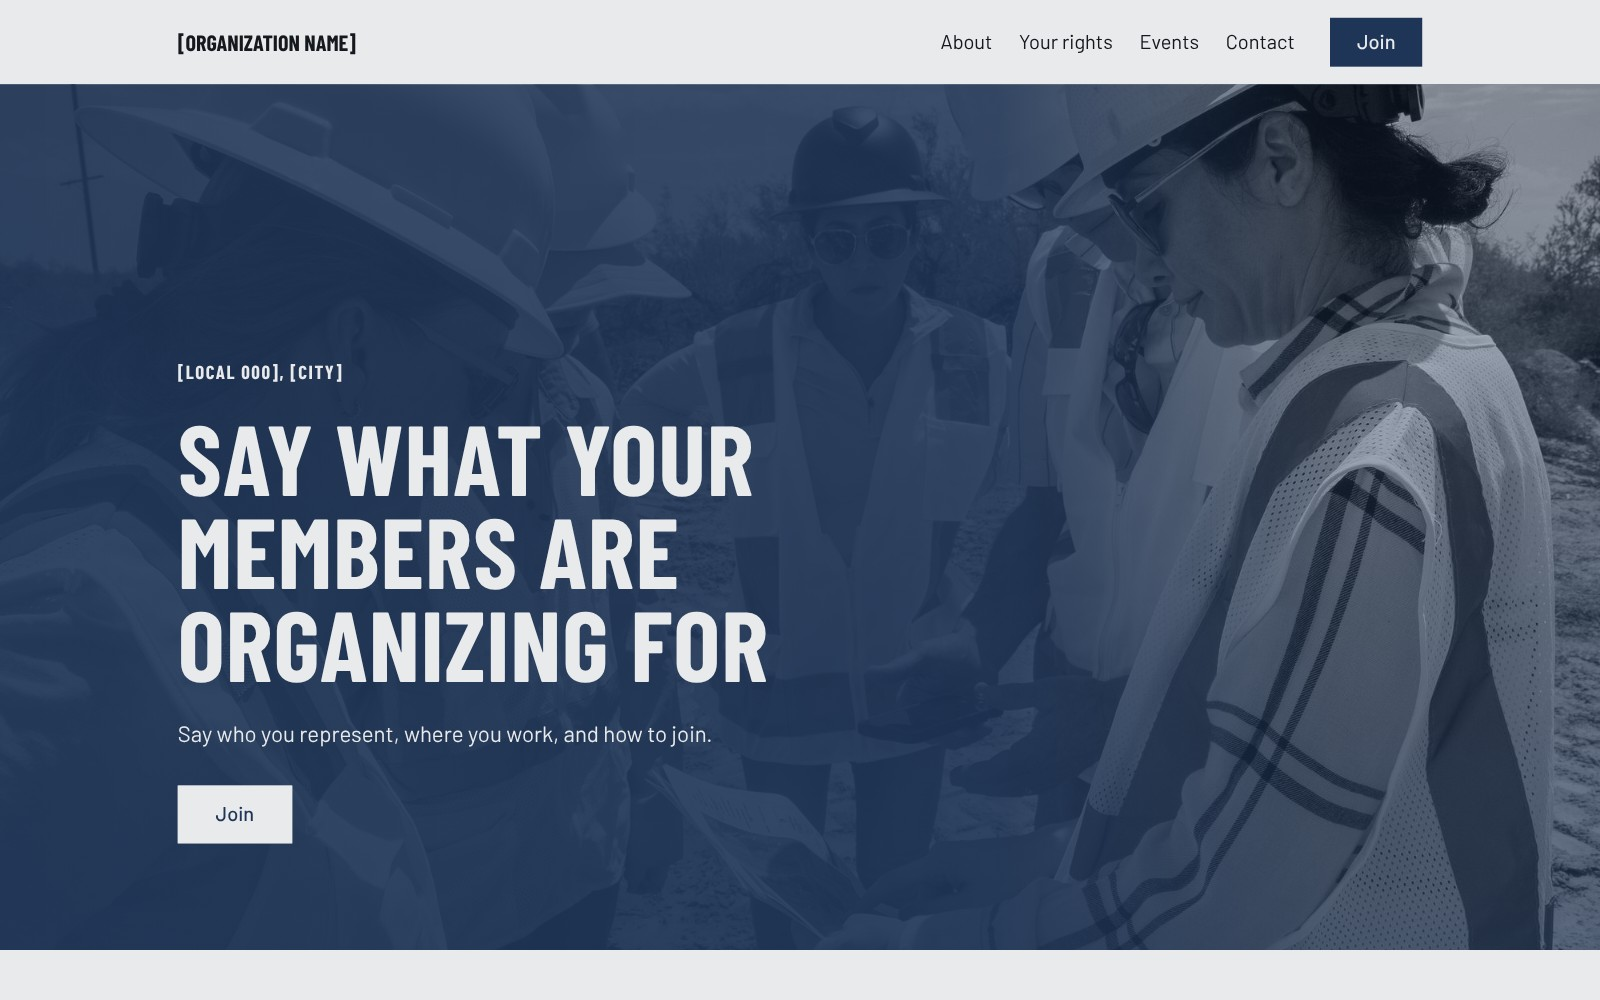
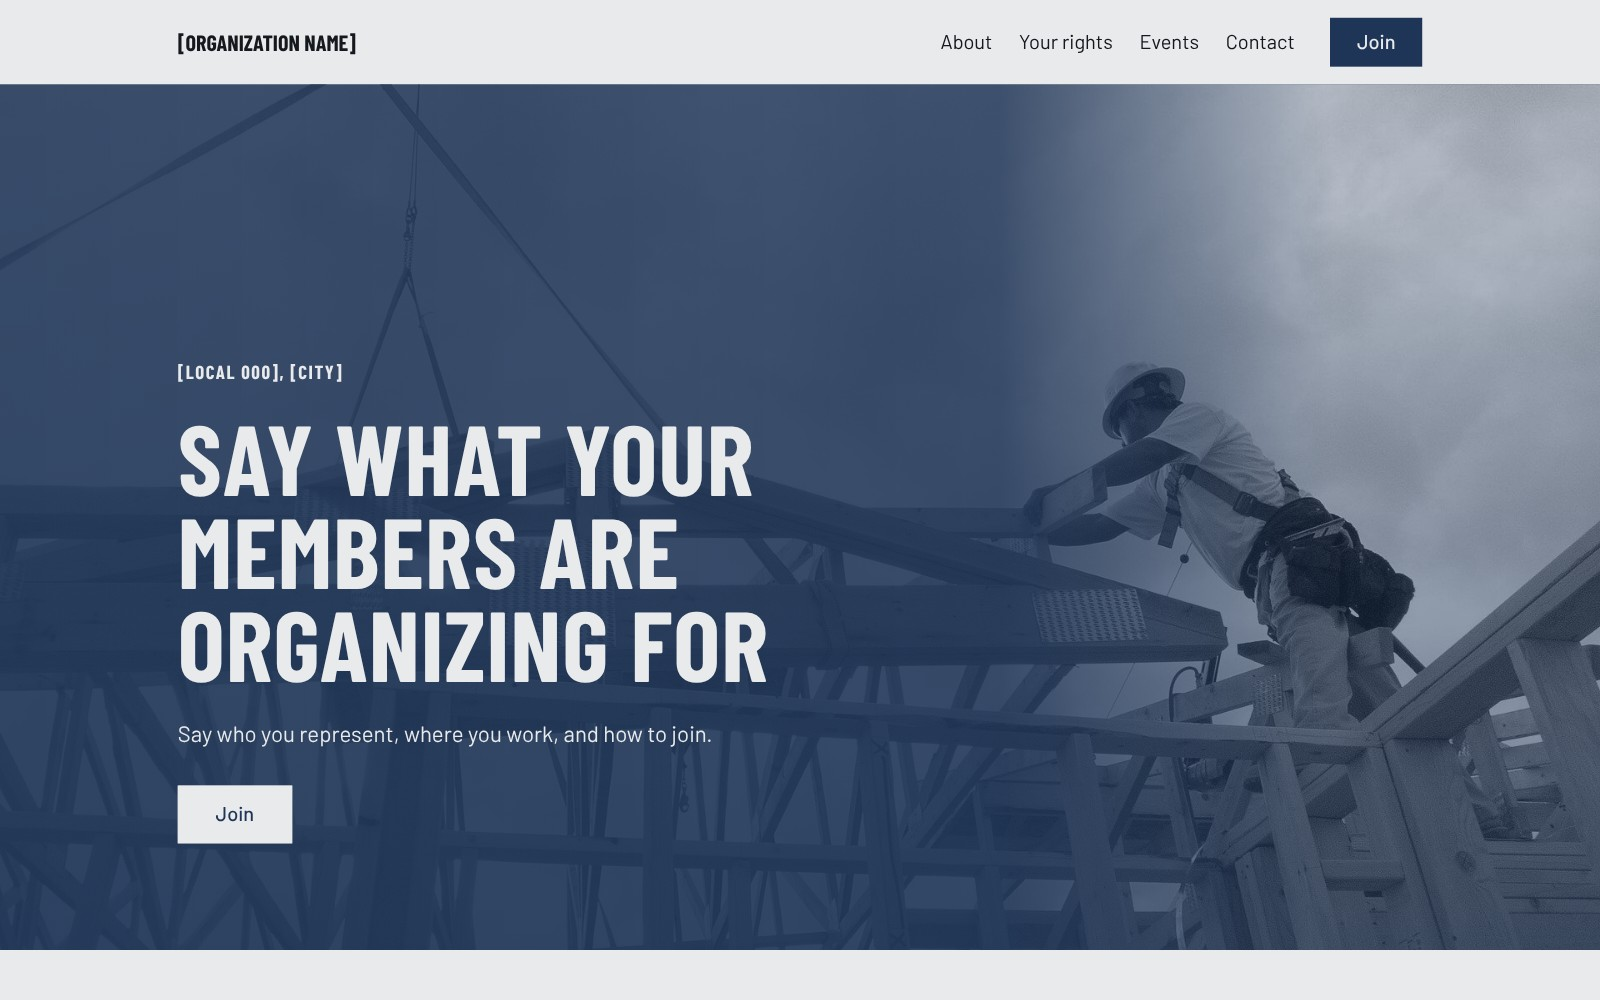
fix(site-templates): Workwear sample photos without faces as the subject
The owner's ruling of 2026-11-01: no photo's subject is a recognisable face.

- hero.jpg: a framer in a hard hat and harness setting a roof truss, his
  face turned down under the brim (NIOSH, 2012, PD-USGov-HHS-NIOSH).
  Painted out: two stickers and faint printing on the hard hat.
- about.jpg: a welder behind his helmet (Alfred T. Palmer, OWI, 1942,
  PD-USGov-FSA). Painted out: a glove maker's mark on his cuff.
- The hero's phone crop sits right of centre, where the framer stands; the
  thumbnail is regenerated.

diff --git a/packages/sdk-components-organizeos/src/site-templates/union/workwear/index.tsx b/packages/sdk-components-organizeos/src/site-templates/union/workwear/index.tsx
@@ -24,13 +24,23 @@ import { RULE } from "./styles";
 // and button, and the Event List as ruled rows with a fixed date column.
 //
 // The photos are public domain works of United States federal agencies,
-// from Wikimedia Commons, cropped, resized, turned to greys (about.jpg's
-// levels stretched, as the faded slide was) and compressed. Painted out: in
-// hero.jpg, a company's logo and slogan on a white hard hat, a company's name
-// on a navy one, a name sticker on a third (each filled with the hat's own
-// shading and grain, the third keeping the edge between its crown and brim)
-// and a round sticker at the top edge (cloned from the hat beside it); in
-// about.jpg, an ID badge on a breast pocket (filled with the pocket's cloth).
+// from Wikimedia Commons, turned to greys (CSS grayscale()'s weights) and
+// compressed. No photo's subject is a face (the owner's ruling of
+// 2026-11-01):
+// - hero.jpg: a framer in a hard hat and harness setting a roof truss from a
+//   crane, his face turned down under the brim. NIOSH (CDC), 2012, posted on
+//   its own Flickr account as a United States Government Work (Commons
+//   licence {{PD-USGov-HHS-NIOSH}}, Flickr review passed). Painted out: a
+//   logo sticker, a second sticker and faint printing on the hard hat
+//   (filled with the hat's own shading and grain, the crown's outline
+//   against the sky carried on from beside it).
+// - about.jpg: a welder behind his helmet, making boilers for a ship in
+//   Chattanooga, June 1942, by Alfred T. Palmer for the Office of War
+//   Information (Library of Congress LC-DIG-fsac-1a35232; Commons licence
+//   {{PD-USGov-FSA}}; the Commons file is a restoration, scratches and dust
+//   removed). Cropped to 4:5 around him. Painted out: a glove maker's mark
+//   and name on his cuff (filled with the cuff's own leather and grain, the
+//   spark across it kept).
 // Every photo slot shows its photo in greys too (`filter: grayscale(1)`), so
 // a photo an org puts there takes the palette as these do; the hero's lies
 // under the denim overlay (pages/home).
@@ -64,14 +74,14 @@ export const workwearTemplate: SiteTemplate = {
     "hero.jpg": {
       url: heroUrl,
       sourceUrl:
-        "https://commons.wikimedia.org/wiki/File:BLM_Arizona_staff_huddle_(53166029612).jpg",
+        "https://commons.wikimedia.org/wiki/File:Framing_fall_prevention_(9253620797).jpg",
       alt: "Replace with a photo of your members at work or meeting together",
     },
     "about.jpg": {
       url: aboutUrl,
       sourceUrl:
-        "https://commons.wikimedia.org/wiki/File:WORKERS_AT_THE_UNION_CARBIDE_URANIUM_MILL_-_NARA_-_543651.jpg",
-      alt: "Replace with a photo from the local's early days, or of two of its members",
+        "https://commons.wikimedia.org/wiki/File:AlfredPalmerwelder1.jpg",
+      alt: "Replace with a photo from the local's early days, or of a member at work",
     },
     "thumbnail.jpg": {
       url: thumbnailUrl,

diff --git a/packages/sdk-components-organizeos/src/site-templates/union/workwear/pages/home.tsx b/packages/sdk-components-organizeos/src/site-templates/union/workwear/pages/home.tsx
@@ -32,8 +32,9 @@ const denim = (alpha: number) =>
  * over the text's column, and below 992px, where the text spans the hero,
  * 74% at the top rising to 94% at the foot. From 74% up, the base-coloured
  * text holds 4.5:1 over a white or a black pixel, in either palette; to the
- * right the photo shows through a light tint. With no photo the section's
- * own accent-1 shows, a plain denim field.
+ * right the photo shows through a light tint. On phones the photo's crop
+ * sits right of centre, where the sample's framer stands. With no photo the
+ * section's own accent-1 shows, a plain denim field.
  * The label, an uppercase headline of up to three lines, one sentence and
  * one inverted Join button sit bottom-left. The hero is 4:5 on a portrait
  * phone, and square from 480px to 767px, but no taller than the window less
@@ -60,10 +61,10 @@ const hero = (context: PageContext) =>
           width: 100%;
           height: 100%;
           object-fit: cover;
-          object-position: 60% 30%;
+          object-position: 60% 40%;
           filter: grayscale(1);
           ${BREAKPOINT.landscape} {
-            object-position: 62% 30%;
+            object-position: 85% 40%;
           }
         `}
       />,

diff --git a/packages/sdk-components-organizeos/src/site-templates/union/workwear/pages/about.tsx b/packages/sdk-components-organizeos/src/site-templates/union/workwear/pages/about.tsx
@@ -52,7 +52,7 @@ const history = (context: PageContext) =>
         {photo(context, "about.jpg", {
           ratio: "4 / 5",
           phoneRatio: "3 / 2",
-          // the phone's 3:2 band keeps both hard hats and faces
+          // the phone's 3:2 band keeps the welder's helmet, the arc and the lead
           phonePosition: "50% 20%",
         })}
         <ws.element ws:tag="div" ws:style={stackStyles(SPACE[16])}>
